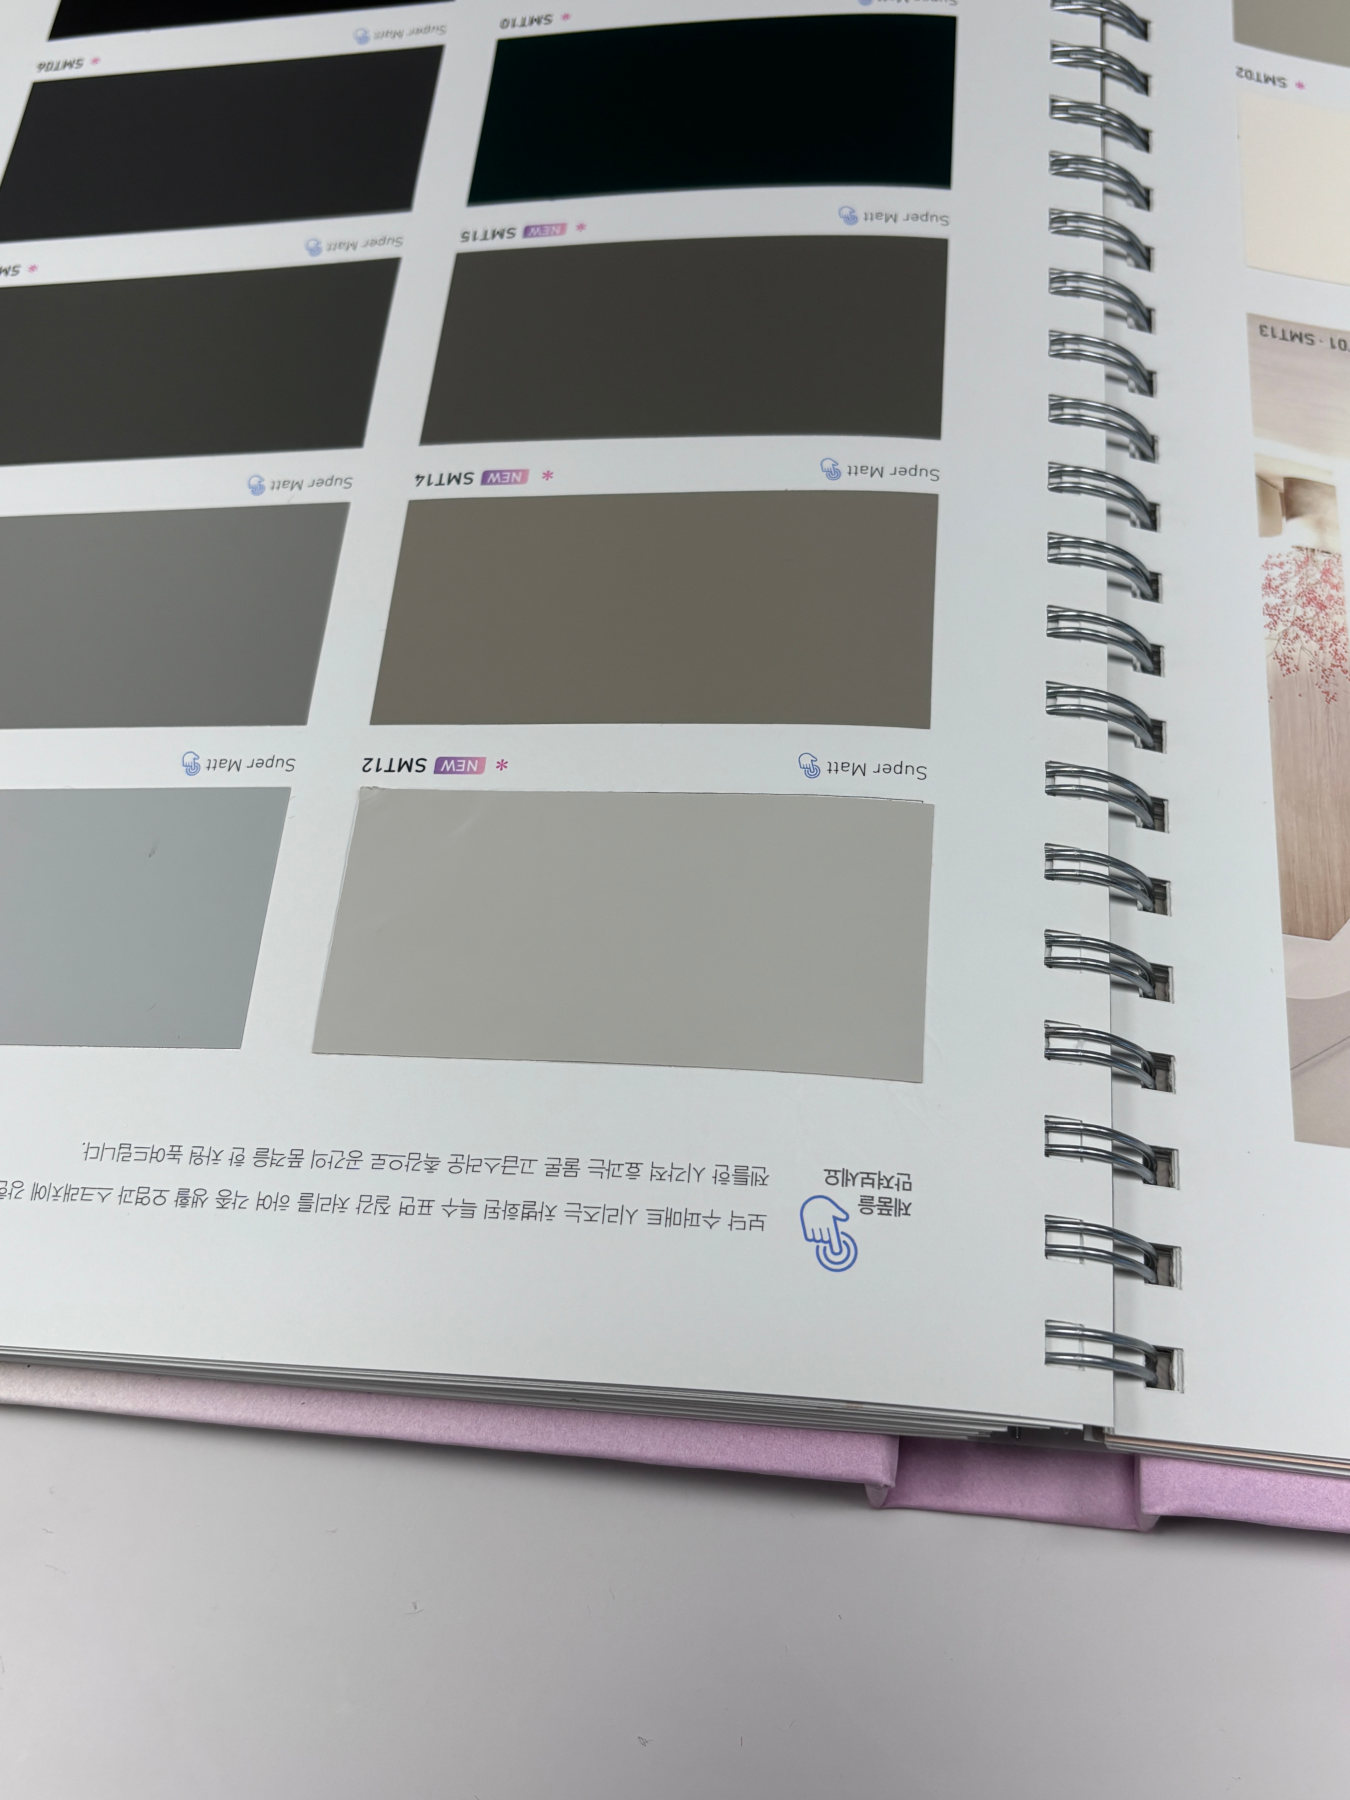
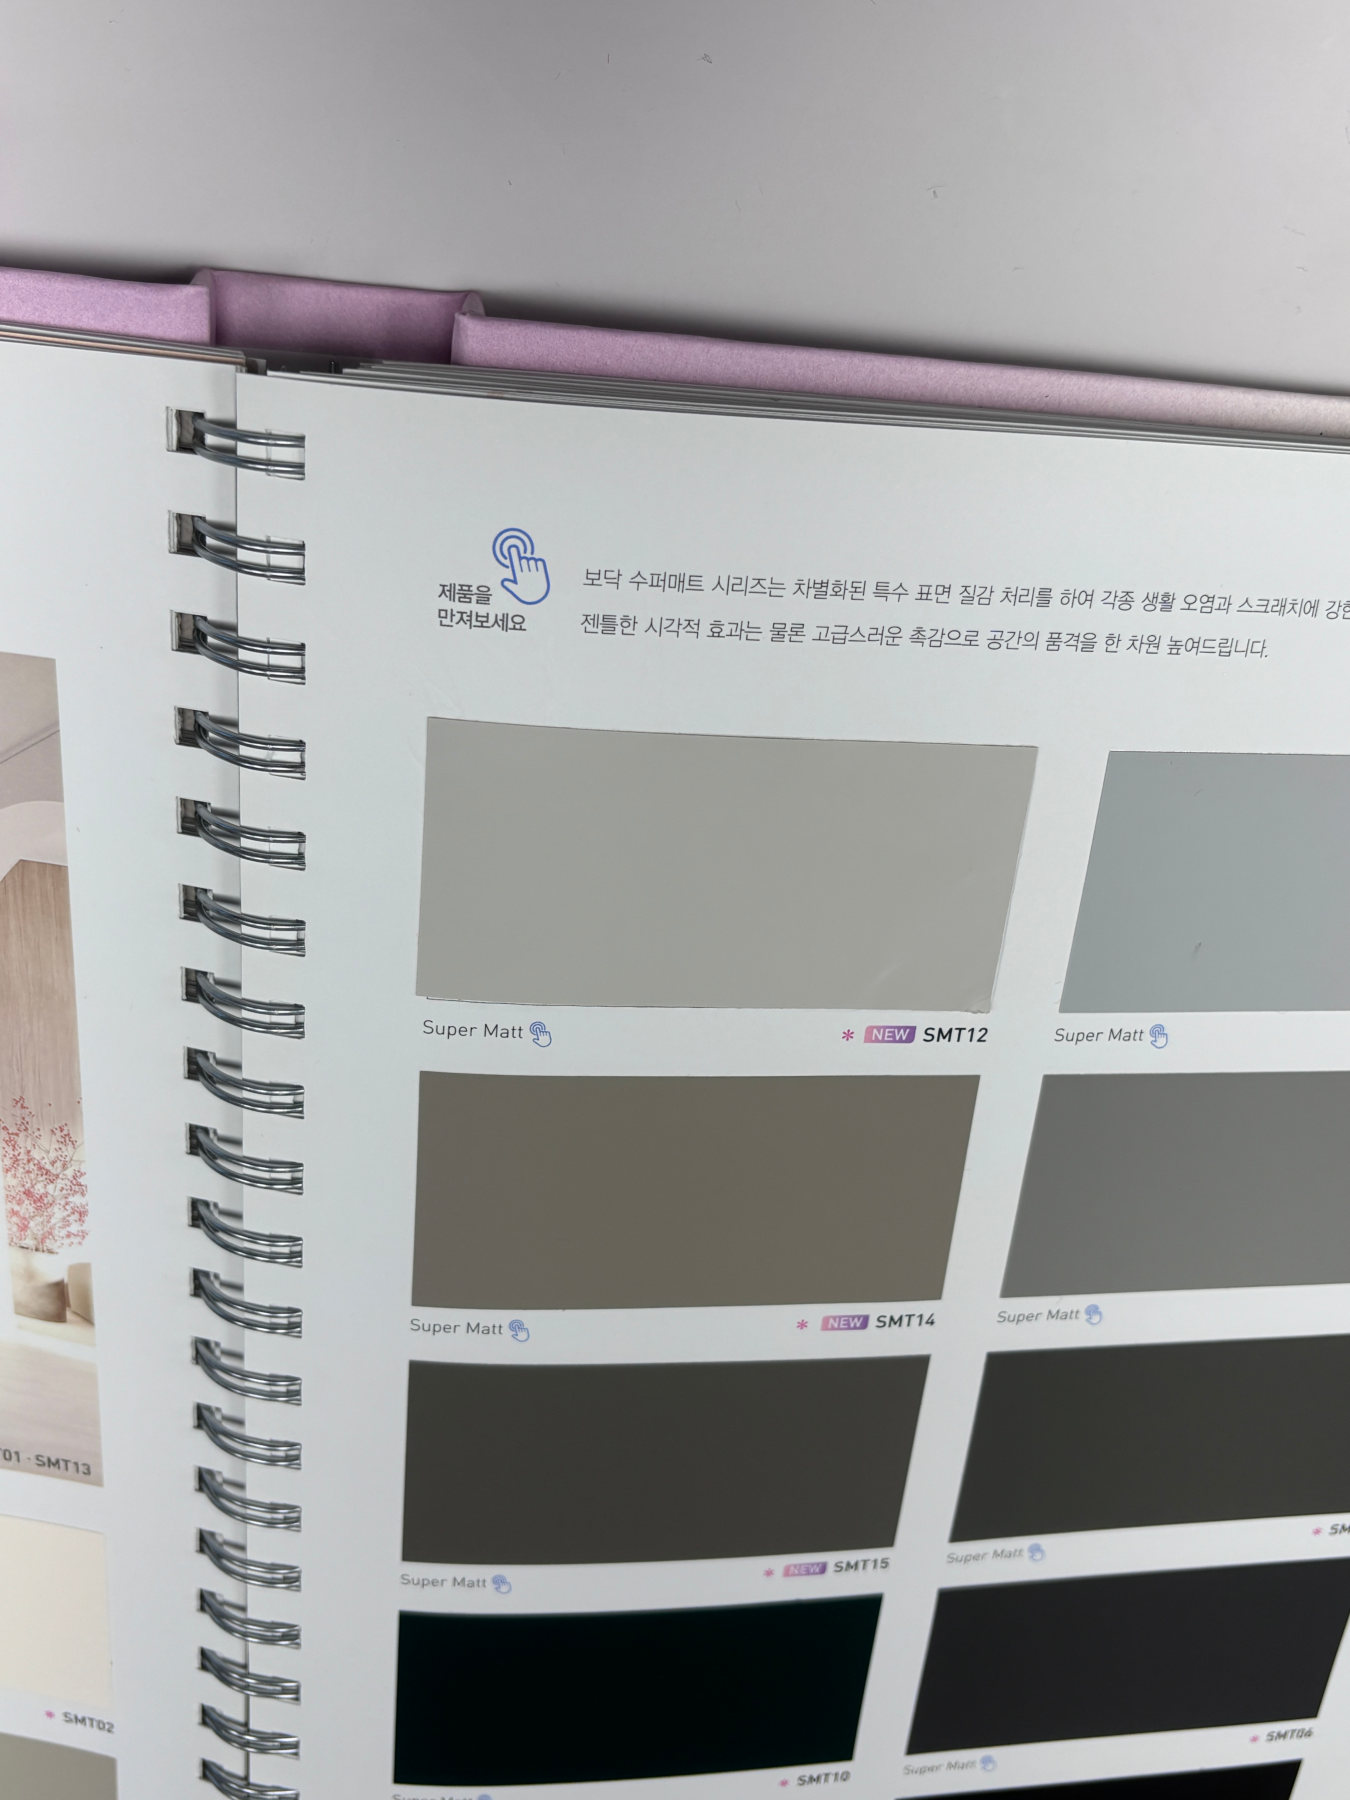
Review round 2: colour book orientation, H500 hero, home cards, TS450 views, marquee
- CMF colour book: correct EXIF rotation (was upside down)
- H500 hero: controller render shown whole (wheelchair render is cropped in the source)
- Home: TS450 feature card uses a landscape room shot; H500 card contained with padding
- TS450 view row: trim empty background and extend edges to square so the product fills ~80% with no visible panel
- Generator: 'trim' and 'square' source options; auto background sampled from top/side edges
- Home marquee: PRODUCT DESIGN / PHYSICAL UX / CMF / PROTOTYPING

diff --git a/work/h500.html b/work/h500.html
@@ -39,7 +39,7 @@
 </header>
 
 <section class="v2-hero v2-hero--plain v2-hero--after-head">
-  <div class="v2-hero__media"><img src="../assets/works/h500/chair186.jpg" alt="" loading="lazy" width="1800" height="1013" class="st-contain" style="background:#ffffff;padding:2% 0"></div>
+  <div class="v2-hero__media"><img src="../assets/works/h500/ctrl_cover_src.jpg" alt="" loading="lazy" width="1450" height="1126" class="st-contain" style="background:#ffffff;padding:4% 0"></div>
 </section>
 
 <section class="meta">
@@ -122,13 +122,12 @@
 </section>
 
 <section class="wd-bigsquare">
-  <div class="wd-bigsquare__frame reveal" style="background:#ffffff"><img src="../assets/works/h500/ctrl_pers.jpg" alt="" loading="lazy" width="1336" height="1044" class="st-contain" style="background:#ffffff;padding:8%"></div>
+  <div class="wd-bigsquare__frame reveal" style="background:#ffffff"><img src="../assets/works/h500/ctrl_top.jpg" alt="" loading="lazy" width="1208" height="2336" class="st-contain" style="background:#ffffff;padding:8%"></div>
 </section>
 
-<section class="wd-trirow">
-  <div class="wd-trirow__cell reveal"><img src="../assets/works/h500/ctrl_top.jpg" alt="" loading="lazy" width="1208" height="2336" class="st-contain" style="background:#ffffff;padding:8%"></div>
-  <div class="wd-trirow__cell reveal delay-1"><img src="../assets/works/h500/ctrl_side.jpg" alt="" loading="lazy" width="1800" height="1228" class="st-contain" style="background:#ffffff;padding:8%"></div>
-  <div class="wd-trirow__cell reveal delay-2"><img src="../assets/works/h500/concept.jpg" alt="" loading="lazy" width="1800" height="1013" class="st-contain" style="background:#ffffff;padding:8%"></div>
+<section class="wd-detailduo">
+  <div class="reveal" style="background:#ffffff"><img src="../assets/works/h500/ctrl_side.jpg" alt="" loading="lazy" width="1800" height="1228" class="st-contain" style="background:#ffffff;padding:8%"></div>
+  <div class="reveal delay-1" style="background:#ffffff"><img src="../assets/works/h500/concept.jpg" alt="" loading="lazy" width="1800" height="1013" class="st-contain" style="background:#ffffff;padding:8%"></div>
 </section>
 
 <section class="wd-textrow wd-textrow--split">

diff --git a/index.html b/index.html
@@ -438,8 +438,8 @@
 <!-- MARQUEE --------------------------------------------- -->
 <div class="marquee" aria-hidden="true">
   <div class="marquee__track">
-    <span>PRODUCT DESIGN<span class="sep"></span>ADVANCED DESIGN<span class="sep"></span>PHYSICAL UX<span class="sep"></span></span>
-    <span>PRODUCT DESIGN<span class="sep"></span>ADVANCED DESIGN<span class="sep"></span>PHYSICAL UX<span class="sep"></span></span>
+    <span>PRODUCT DESIGN<span class="sep"></span>PHYSICAL UX<span class="sep"></span>CMF<span class="sep"></span>PROTOTYPING<span class="sep"></span></span>
+    <span>PRODUCT DESIGN<span class="sep"></span>PHYSICAL UX<span class="sep"></span>CMF<span class="sep"></span>PROTOTYPING<span class="sep"></span></span>
   </div>
 </div>
 
@@ -466,7 +466,7 @@
   <div class="work__grid work__grid--feature">
     <a class="card reveal" data-magnetic href="work/threespin.html">
       <div class="card__media">
-        <img src="assets/works/threespin_cover.jpg" alt="쓰리스핀 슬림 TS450">
+        <img src="assets/works/ts450/overview_life.jpg" alt="쓰리스핀 슬림 TS450 · 거실" style="object-position:50% 60%">
         <span class="card__badge">iF Gold · Red Dot · GD</span>
         <span class="card__view">View project →</span>
       </div>
@@ -496,7 +496,7 @@
 
     <a class="card reveal delay-2" data-magnetic href="work/h500.html">
       <div class="card__media">
-        <img src="assets/works/h500/ctrl_cover_src.jpg" alt="H500 컨트롤러">
+        <img src="assets/works/h500/ctrl_cover_src.jpg" alt="H500 컨트롤러" style="object-fit:contain;padding:12% 10% 6%;background:#f4f4f4">
         <span class="card__badge">Everybot Mobility</span>
         <span class="card__view">View project →</span>
       </div>

diff --git a/work/threespin.html b/work/threespin.html
@@ -134,8 +134,8 @@
 </section>
 
 <section class="wd-trirow">
-  <div class="wd-trirow__cell reveal"><img src="../assets/works/ts450/front_pers.jpg" alt="" loading="lazy" width="1800" height="1012" class="st-contain" style="background:#e7e7e7;padding:8%"></div>
-  <div class="wd-trirow__cell reveal delay-1"><img src="../assets/works/ts450/side_02.jpg" alt="" loading="lazy" width="1800" height="1012" class="st-contain" style="background:#dfdfdf;padding:8%"></div>
+  <div class="wd-trirow__cell reveal"><img src="../assets/works/ts450/front_sq.jpg" alt="" loading="lazy" width="1531" height="1531"></div>
+  <div class="wd-trirow__cell reveal delay-1"><img src="../assets/works/ts450/side_sq.jpg" alt="" loading="lazy" width="1699" height="1699"></div>
   <div class="wd-trirow__cell reveal delay-2"><img src="../assets/works/ts450/topview.jpg" alt="" loading="lazy" width="1450" height="1800"></div>
 </section>
 

diff --git a/work/inclusive.html b/work/inclusive.html
@@ -148,7 +148,7 @@
 </section>
 
 <section class="wd-bleed wd-bleed--final">
-  <div class="wd-bleed__frame wd-bleed__frame--photo reveal" style="aspect-ratio:763/336;background:#fafafa"><img src="../assets/works/inclusive/s_seat_layout.jpg" alt="" loading="lazy" width="763" height="336" class="st-contain" style="background:#fafafa;padding:2% 8%"></div>
+  <div class="wd-bleed__frame wd-bleed__frame--photo reveal" style="aspect-ratio:763/336;background:#f8f8fa"><img src="../assets/works/inclusive/s_seat_layout.jpg" alt="" loading="lazy" width="763" height="336" class="st-contain" style="background:#f8f8fa;padding:2% 8%"></div>
 </section>
 
 <section class="wd-dark">

diff --git a/work/mobilink.html b/work/mobilink.html
@@ -178,7 +178,7 @@
 </section>
 
 <section class="wd-bigsquare">
-  <div class="wd-bigsquare__frame reveal" style="background:#999999"><img src="../assets/works/mobilink/render.jpg" alt="" loading="lazy" width="1114" height="951" class="st-contain" style="background:#999999"></div>
+  <div class="wd-bigsquare__frame reveal" style="background:#9b9b9b"><img src="../assets/works/mobilink/render.jpg" alt="" loading="lazy" width="1114" height="951" class="st-contain" style="background:#9b9b9b"></div>
 </section>
 
 <section class="wd-dark">

diff --git a/_tools/story_pages.py b/_tools/story_pages.py
@@ -12,7 +12,7 @@ OLD = r"C:\Users\Hkyum\AppData\Local\Temp\claude\C--Users-Hkyum-iCloudDrive\1054
 def OLDP(n, crop):
     return {"src": os.path.join(OLD, f"p{n}.png"), "crop": crop}
 FINAL_PDF = r"C:\Users\Hkyum\AppData\Local\Temp\claude\C--Users-Hkyum-iCloudDrive\1054dd20-8098-478f-a7d0-c5556a0bf222\scratchpad\final_portfolio.pdf"  # 최종 제출 PDF 사본
-ROT_CW = 270  # pymupdf insert_image 의 rotate 는 반시계 → 시계 90° = 270
+ROT_CW = 90  # EXIF 6 — pymupdf insert_image rotate=90 이 맞음(270은 뒤집혀 보였음, 리뷰 확인)
 
 # PDF 순서: TS450 → TS700 → H500 → WADE → CMF, 이어서 대학원 작업과 UX
 ORDER = ["threespin", "ts700", "h500", "wade", "odm-cmf", "mobilink", "flever", "inclusive", "seuv", "ev-sedan"]
@@ -22,6 +22,8 @@ SOURCES = {
         "cover_src.jpg": J(LS, "_시안", "assets", "ts450", "cover_src.jpg"),
         "main_pers.jpg": J(LS, "TS450", "TS450_Main_Pers.png"),
         "side_02.jpg": J(LS, "TS450", "TS450_Side_02.png"),
+        "front_sq.jpg": {"src": J(LS, "TS450", "TS450_Front_Pers.png"), "trim": 0.08, "square": True},
+        "side_sq.jpg": {"src": J(LS, "TS450", "TS450_Side_02.png"), "trim": 0.05, "square": True},
         "macro2.jpg": J(LS, "TS450", "genspark", "gs_ts450_mop_macro_02.png"),
         # 최종 PDF 7쪽의 주석(화살표·라벨) 포함 Before / After / Cradle
         "sensor_before_pdf.jpg": {"pdf": FINAL_PDF, "page": 6, "rect": (584, 120, 1194, 529), "scale": 2},
@@ -194,8 +196,8 @@ PAGES["threespin"] = dict(
          "A black sensor-window line wraps the body through 360 degrees and leads the eye horizontally, while corners "
          "finished with varied radii set it apart from round robot vacuums."),
         ("square", {"f": "main_pers.jpg", "fit": "contain", "bg": "auto", "pad": "7%"}),
-        ("tri", [{"f": "front_pers.jpg", "fit": "contain", "bg": "auto", "pad": "8%"},
-                 {"f": "side_02.jpg", "fit": "contain", "bg": "auto", "pad": "8%"}, "topview.jpg"]),
+        ("tri", ["front_sq.jpg",
+                 "side_sq.jpg", "topview.jpg"]),
         ("text", "Low Proportion",
          "상단부 두께를 최소화하고 측면 라인이 바닥으로 흘러내리도록 처리해 바닥에 밀착된 인상을 줍니다. 개발 중 IR 센서가 "
          "측후면으로 이동한 뒤에도 손잡이·상면 곡률·센서창 비율을 함께 조정해 이 라인을 유지했습니다.",
@@ -329,7 +331,7 @@ PAGES["h500"] = dict(
     dir="h500", cat_key="product", title="H500", year="2025 — 2026", category="Wheelchair · Everybot Mobility",
     desc="에브리봇모빌리티 H500 수전동휠체어 컨트롤러 · 인휠모터 휠 디자인",
     lede="수전동휠체어 H500의 <b>컨트롤러</b>와 <b>인휠모터 휠</b>을 디자인했습니다.",
-    hero={"f": "chair186.jpg", "fit": "contain", "bg": "auto", "pad": "2% 0"},
+    hero={"f": "ctrl_cover_src.jpg", "fit": "contain", "bg": "auto", "pad": "4% 0"},  # 휠체어 렌더는 원본에서 등받이가 잘려 있어 제외
     meta=[("Term", "2025.12 — 2026.06"), ("Client", "에브리봇모빌리티"), ("Product", "H500 수전동휠체어"),
           ("Scope", "컨트롤러 · 인휠모터 휠"), ("Output", "3D 프린팅 목업 · CMF 목업")],
     intro=([("CTRL", "Controller", "팜레스트 형상 · 버튼 배치", "오조작 방지 · 표시부 가독성"),
@@ -366,10 +368,9 @@ PAGES["h500"] = dict(
          "줄였습니다.",
          "The palm rest detaches and can be mounted on either side, so left-handed users can use it too. An off-the-shelf "
          "joystick keeps the cost down."),
-        ("square", {"f": "ctrl_pers.jpg", "fit": "contain", "bg": "auto", "pad": "8%"}),
-        ("tri", [{"f": "ctrl_top.jpg", "fit": "contain", "bg": "auto", "pad": "8%"},
-                 {"f": "ctrl_side.jpg", "fit": "contain", "bg": "auto", "pad": "8%"},
-                 {"f": "concept.jpg", "fit": "contain", "bg": "auto", "pad": "8%"}]),
+        ("square", {"f": "ctrl_top.jpg", "fit": "contain", "bg": "auto", "pad": "8%"}),
+        ("pair", [{"f": "ctrl_side.jpg", "fit": "contain", "bg": "auto", "pad": "8%"},
+                  {"f": "concept.jpg", "fit": "contain", "bg": "auto", "pad": "8%"}]),
         ("split",
          ("Button Grouping", "레드 전원 버튼을 중심으로 라이트·비상등·경적 버튼을 기능별로 묶었습니다.",
           "Light, hazard and horn buttons are grouped by function around the central red power button."),

diff --git a/_tools/gen_story.py b/_tools/gen_story.py
@@ -39,7 +39,7 @@ MAX = 1800
 # ---------------------------------------------------------------- assets
 def _load_source(src):
     """SOURCES 값 → Pixmap. 값은 경로 문자열 또는 dict:
-       {"src": 경로, "rot": 90|180|270, "crop": (x0, y0, x1, y1) 비율}
+       {"src": 경로, "rot": 90|180|270, "crop": (x0, y0, x1, y1) 비율, "trim": 0.06 (빈 배경 자르고 여백 비율)}
        {"pdf": 경로, "page": 0부터, "rect": (x0, y0, x1, y1) PDF 좌표, "scale": 1.5}"""
     if isinstance(src, str):
         src = {"src": src}
@@ -65,7 +65,46 @@ def _load_source(src):
             x0, y0, x1, y1 = crop
             clip = pymupdf.Rect(w * x0, h * y0, w * x1, h * y1)
         pix = pg.get_pixmap(clip=clip)
+    if src.get("trim") is not None:
+        pix = _trim(pix, src["trim"])
+    if src.get("square"):
+        pix = _square(pix)
     return pix
+
+
+def _square(pix):
+    """가장자리 픽셀을 늘려 정사각형으로 (그라데이션 배경 렌더를 정사각 칸에 꽉 채울 때)"""
+    import numpy as np
+    a = np.frombuffer(pix.samples, dtype=np.uint8).reshape(pix.height, pix.width, pix.n)[:, :, :3]
+    h, w = a.shape[:2]
+    if w > h:
+        t = (w - h) // 2
+        a = np.pad(a, ((t, w - h - t), (0, 0), (0, 0)), mode="edge")
+    elif h > w:
+        t = (h - w) // 2
+        a = np.pad(a, ((0, 0), (t, h - w - t), (0, 0)), mode="edge")
+    a = np.ascontiguousarray(a)
+    return pymupdf.Pixmap(pymupdf.csRGB, a.shape[1], a.shape[0], a.tobytes(), False)
+
+
+def _trim(pix, margin):
+    """렌더 바깥의 빈 배경을 잘라 제품 둘레에 margin(긴 변 비율)만 남긴다."""
+    import numpy as np
+    if pix.alpha:
+        pix = pymupdf.Pixmap(pix, 0)
+    a = np.frombuffer(pix.samples, dtype=np.uint8).reshape(pix.height, pix.width, pix.n)[:, :, :3].astype(int)
+    corners = np.array([a[2, 2], a[2, -3], a[-3, 2], a[-3, -3]])
+    bg = np.median(corners, axis=0)
+    mask = np.abs(a - bg).sum(axis=2) > 36
+    ys, xs = np.where(mask)
+    if len(xs) == 0:
+        return pix
+    m = int(max(pix.width, pix.height) * margin)
+    x0, x1 = max(0, xs.min() - m), min(pix.width, xs.max() + m)
+    y0, y1 = max(0, ys.min() - m), min(pix.height, ys.max() + m)
+    doc = pymupdf.open(); pg = doc.new_page(width=pix.width, height=pix.height)
+    pg.insert_image(pg.rect, pixmap=pix)
+    return pg.get_pixmap(clip=pymupdf.Rect(x0, y0, x1, y1))
 
 
 def ensure_asset(d, name):
@@ -100,8 +139,12 @@ class Img:
         self.pad = spec.get("pad")      # contain 일 때 제품 둘레 여백 (예: "6%")
         self.alt = spec.get("alt", "")
         self.w, self.h, pix = ensure_asset(d, self.f)
-        if self.bg == "auto":           # 렌더 배경색에 맞춘 판 (왼쪽 위 구석 픽셀)
-            r, g, b = pix.pixel(3, 3)[:3]
+        if self.bg == "auto":           # 렌더 배경색에 맞춘 판 (가장자리 픽셀 평균)
+            # 위쪽 가장자리 + 좌우 중간 (아래쪽은 제품 그림자 때문에 어두워서 제외), 중앙값
+            px = [pix.pixel(x, y)[:3] for x, y in ((3, 3), (pix.width - 4, 3), (pix.width // 4, 3),
+                                                     (pix.width // 2, 3), (3 * pix.width // 4, 3),
+                                                     (3, pix.height // 3), (pix.width - 4, pix.height // 3))]
+            r, g, b = (sorted(c[i] for c in px)[len(px) // 2] for i in range(3))
             self.bg = f"#{r:02x}{g:02x}{b:02x}"
         self.src = f"../assets/works/{d}/{self.f}"
 
